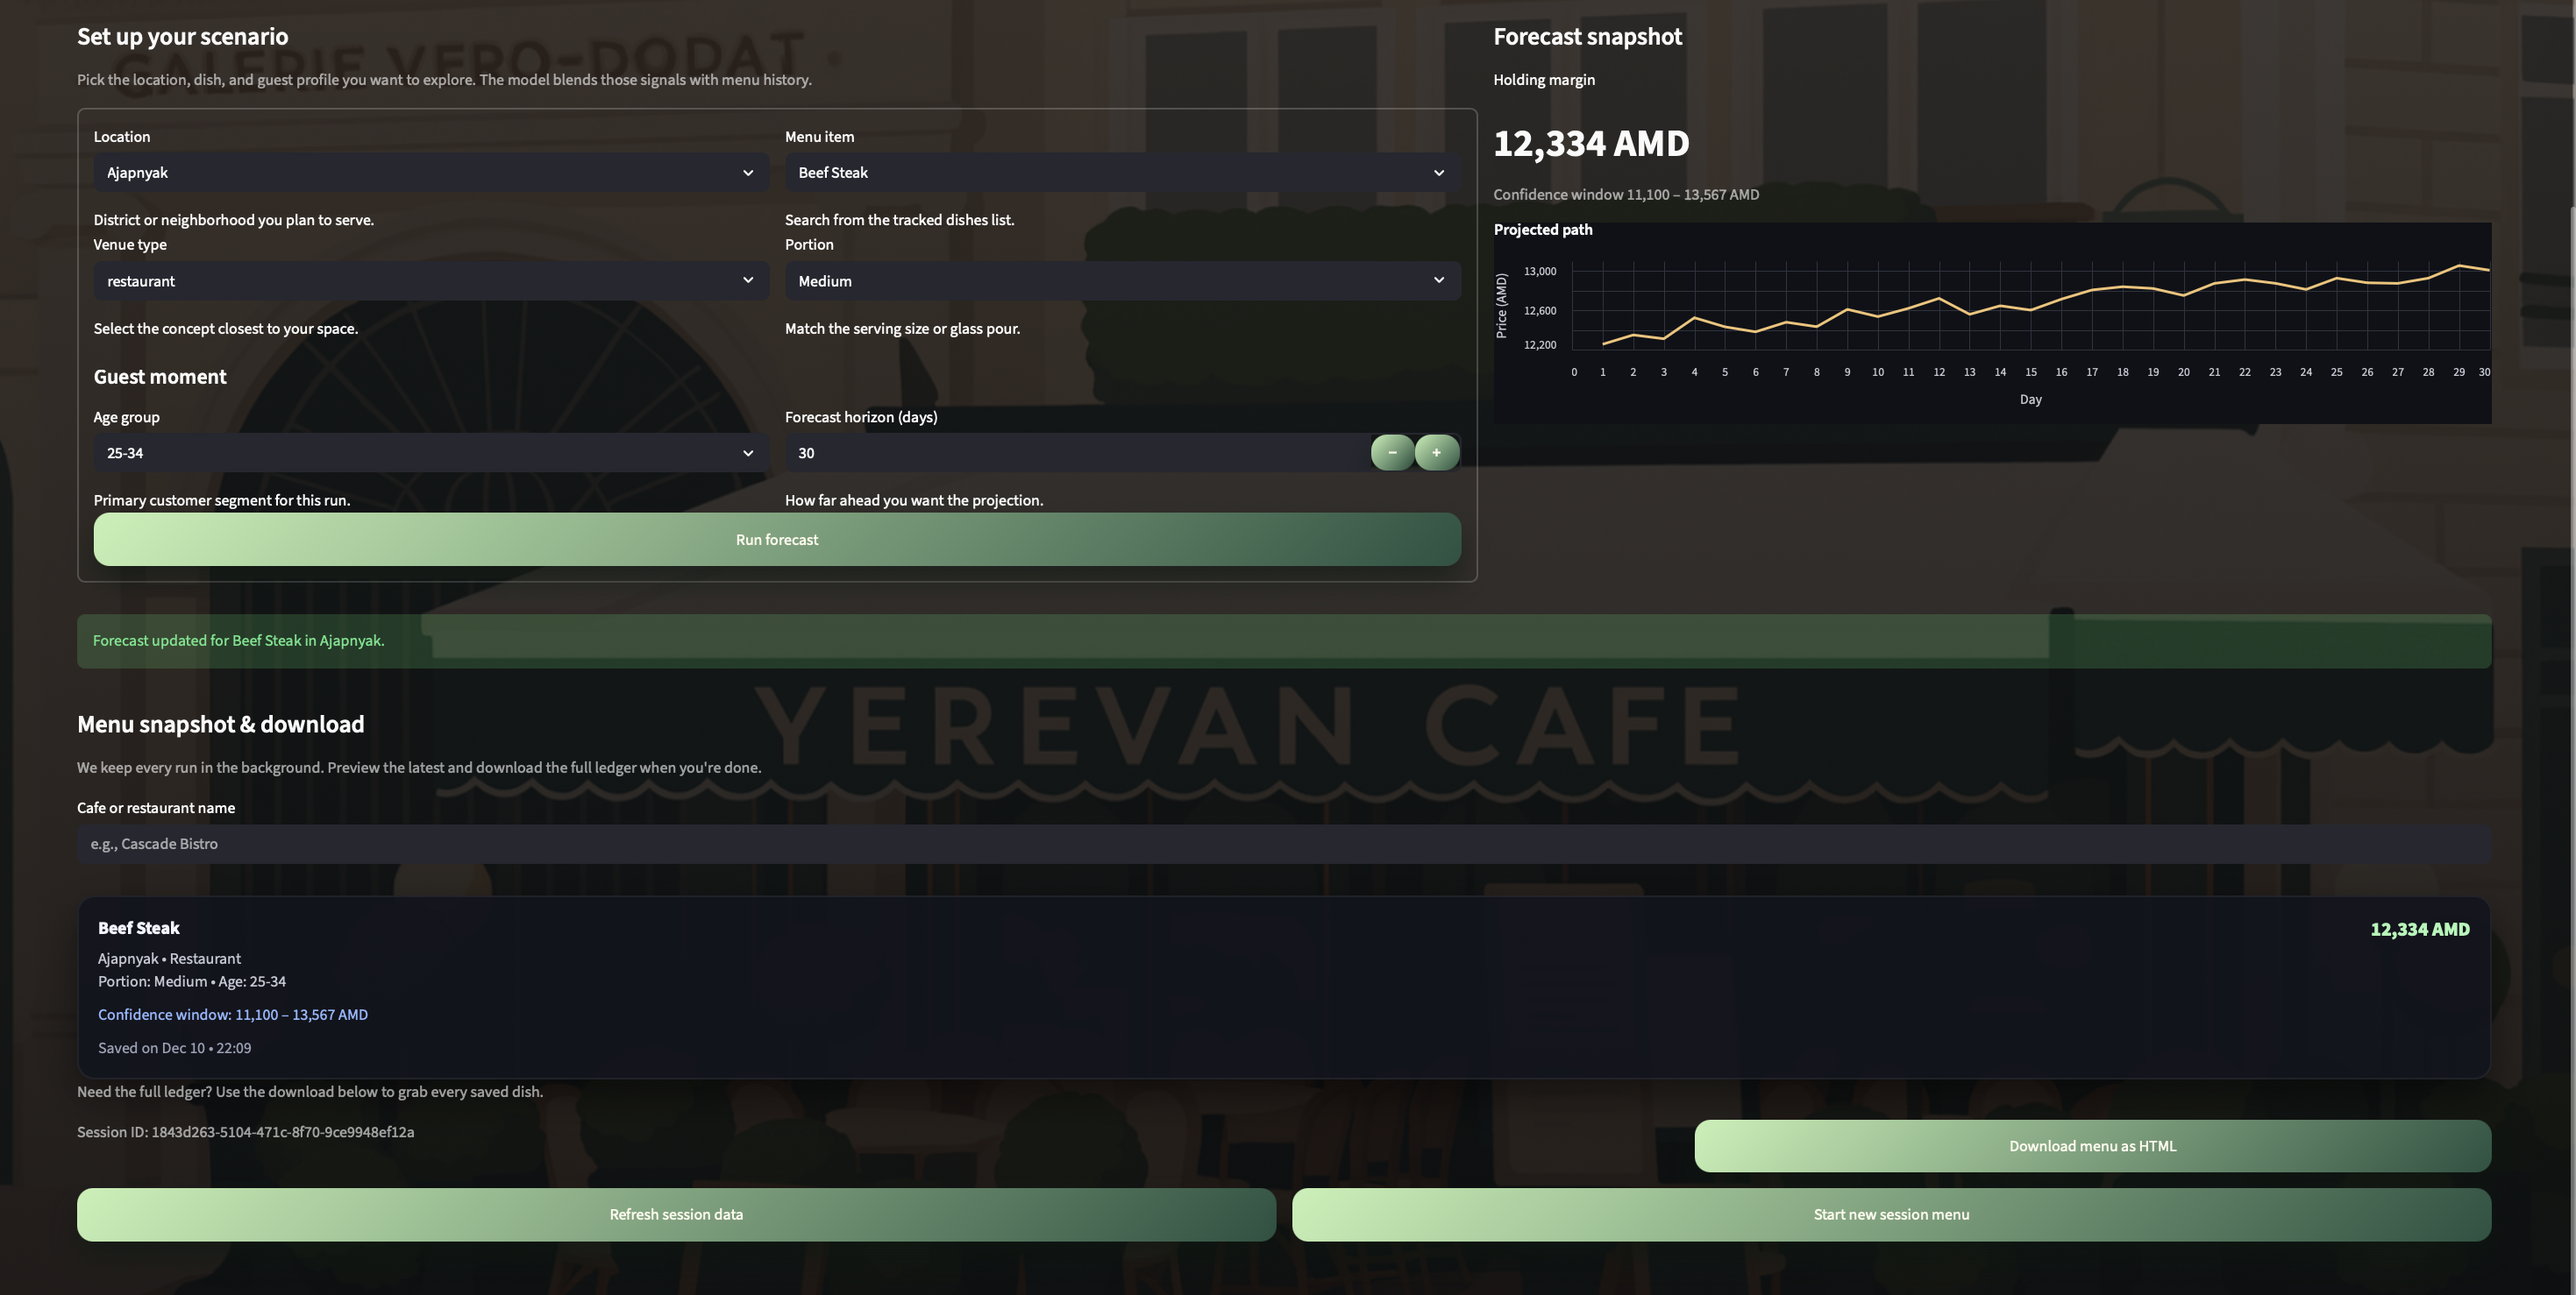
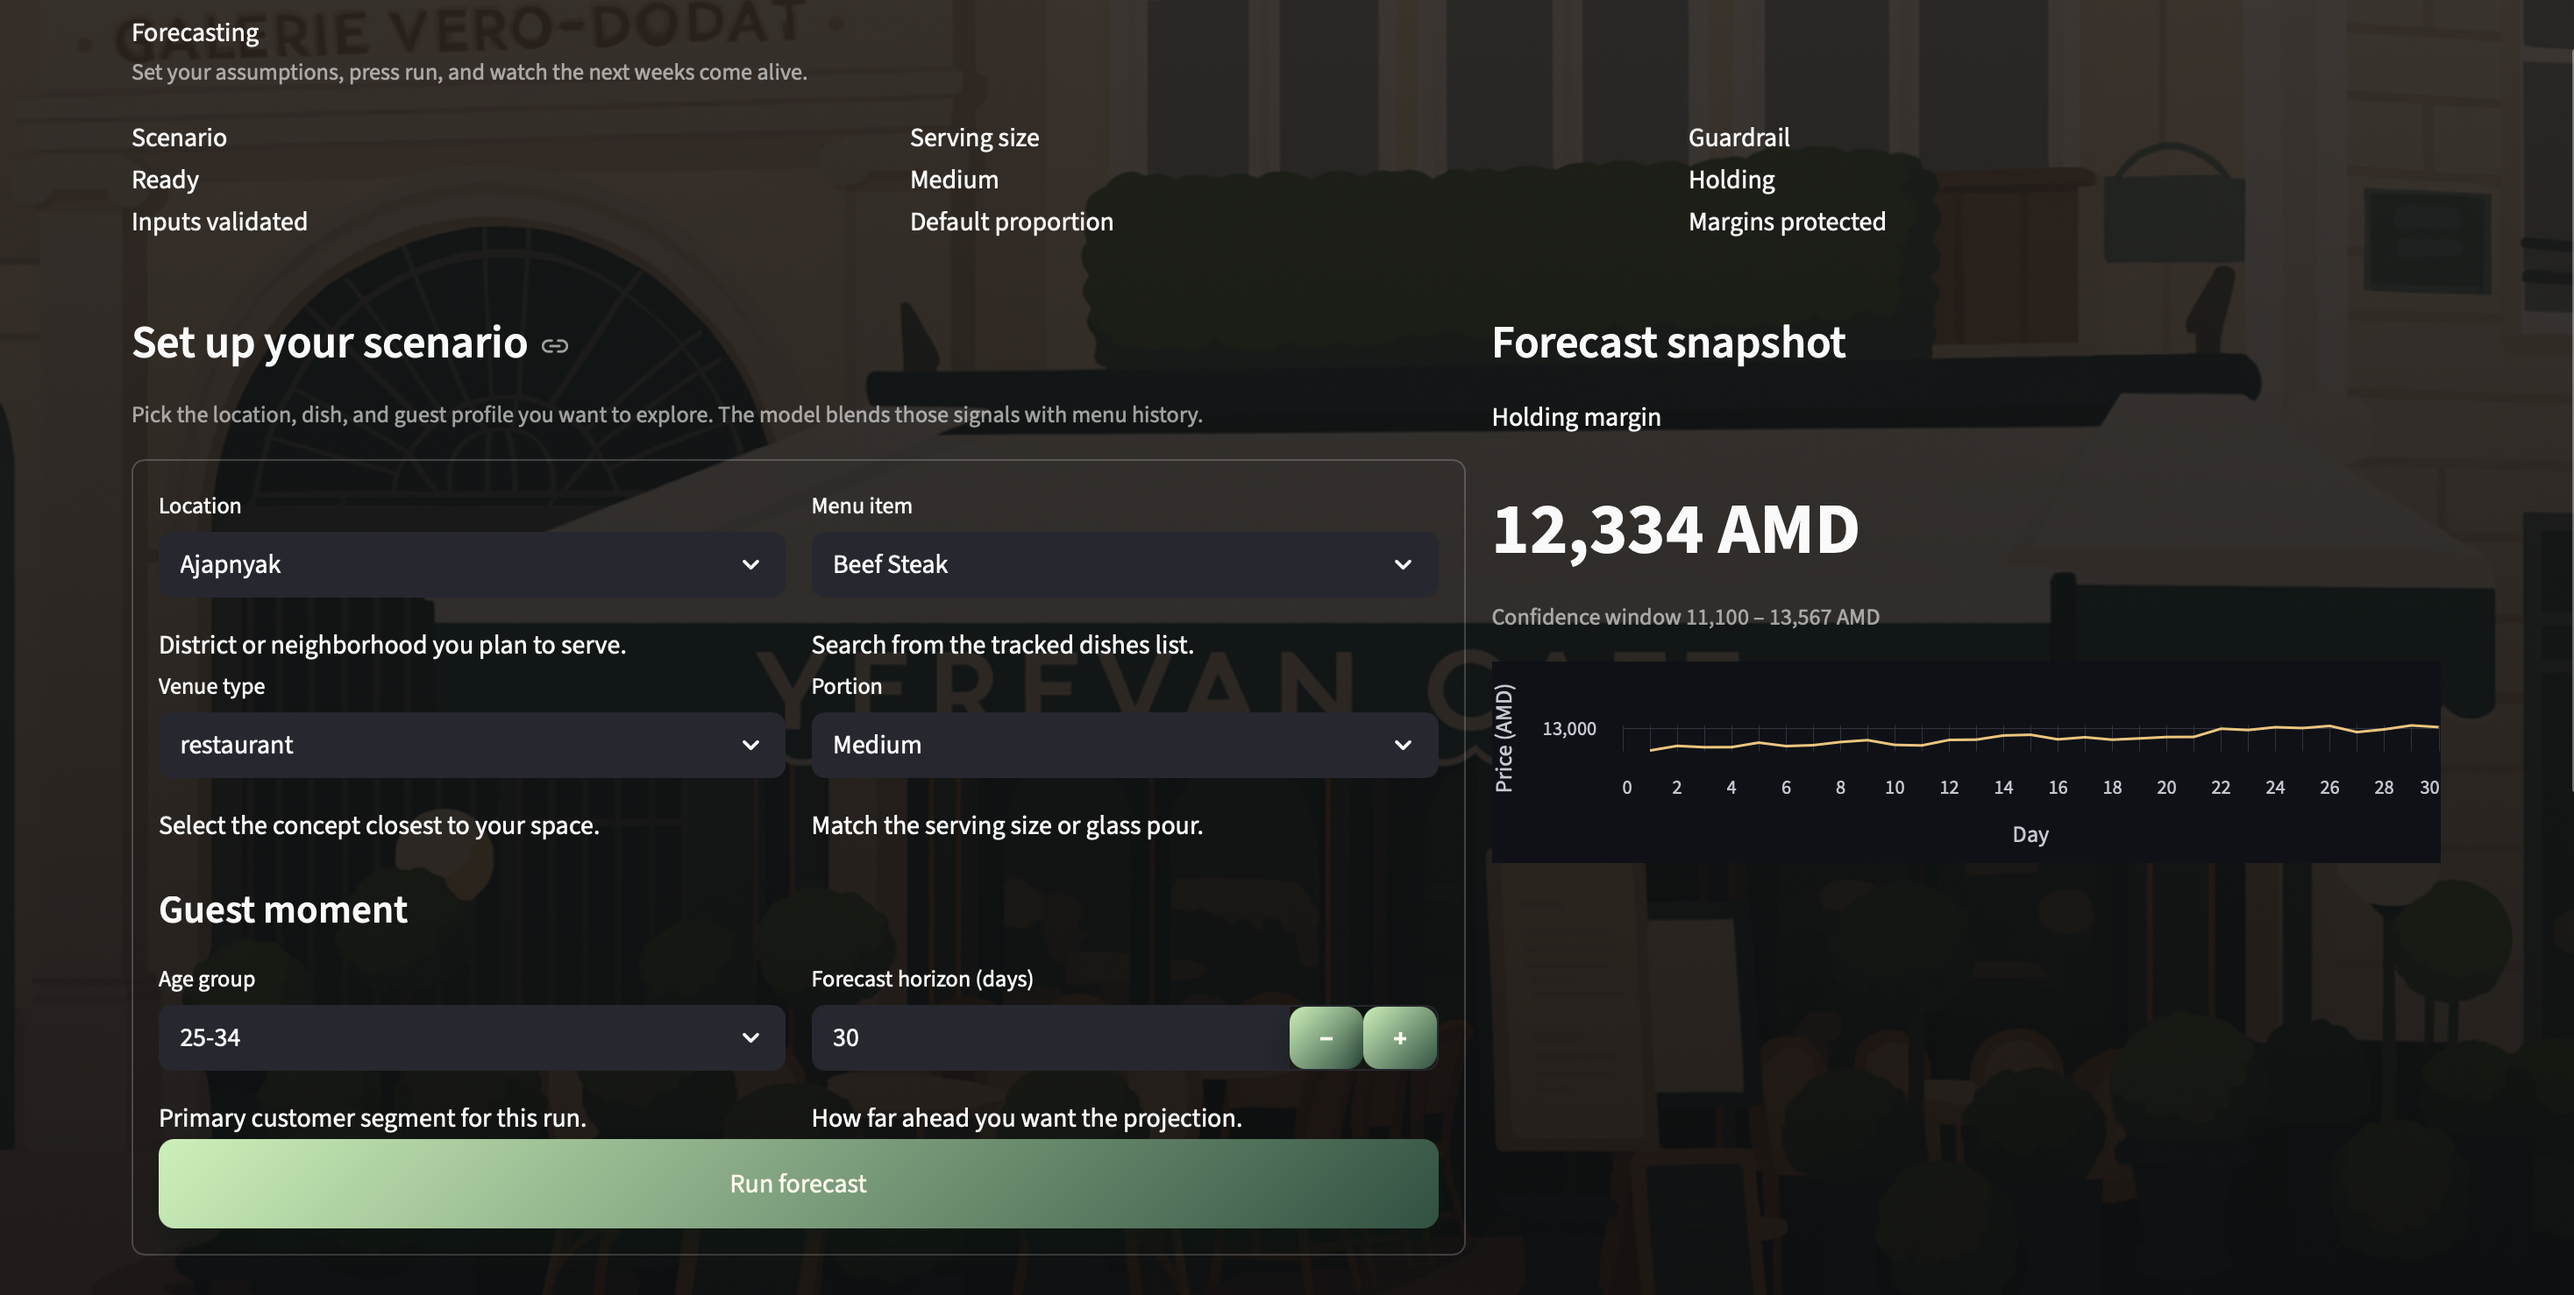
Updtaed Readme

diff --git a/README.md b/README.md
@@ -78,7 +78,7 @@ docker-compose up --build
 ---
 ![Head Page](images/head_page.png)
 ![Forecasting Screenshot](images/forecasting.png)
-![Comparison View](images/comparison.png)
+![Snapshot View](images/snapshot.png)
 ![Menu Saved](images/menu_saved.png)
 ![Swagger UI 1](images/swagger1.jpg)
 ![Swagger UI 2](images/swagger2.jpg)
